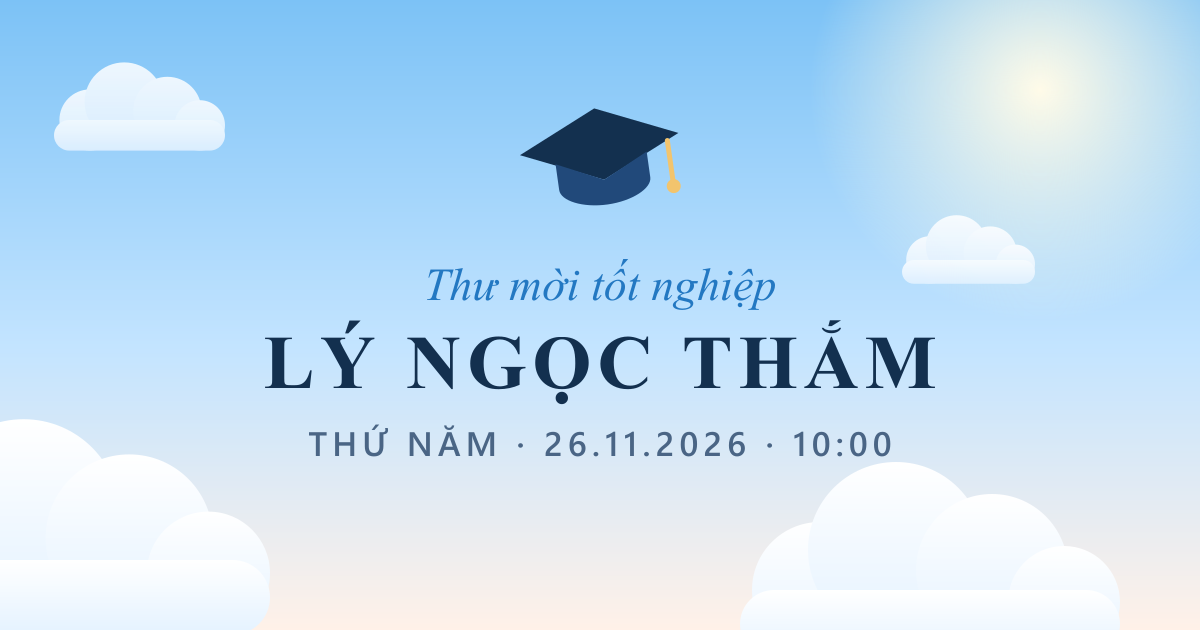
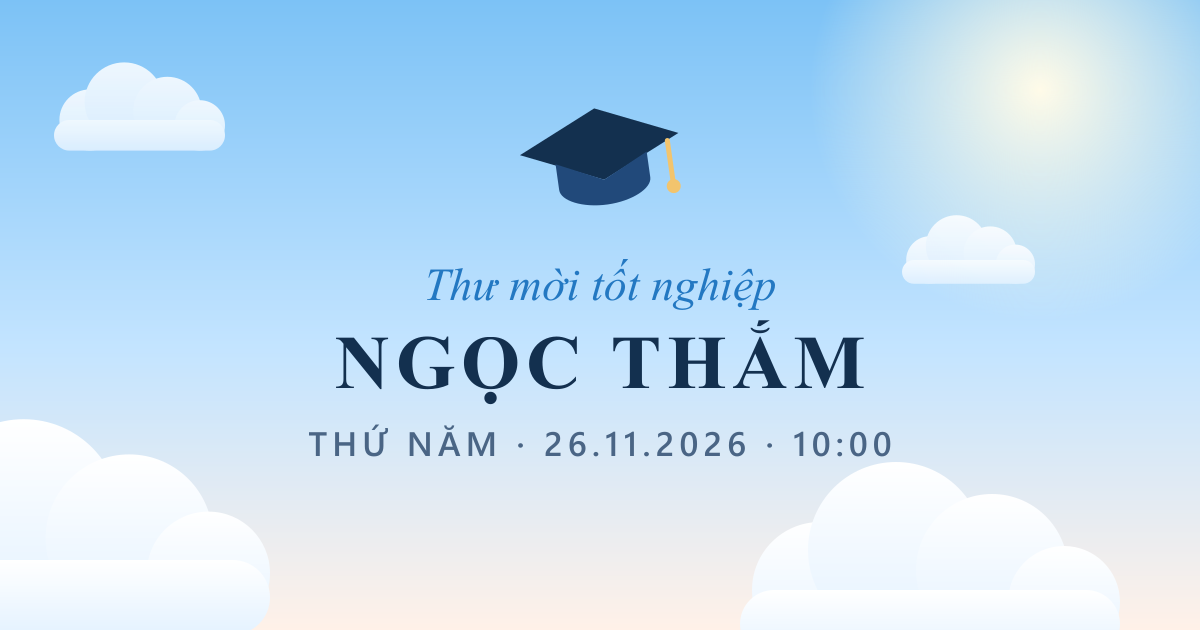
chore: hiển thị tên "Ngọc Thắm" (bỏ họ) ở thiệp, tiêu đề và ảnh xem trước

Changed region(s): [[0.2158, 0.5127, 0.7708, 0.6333]]

diff --git a/index.html b/index.html
@@ -5,11 +5,11 @@
     <meta name="viewport" content="width=device-width, initial-scale=1, viewport-fit=cover" />
     <meta name="robots" content="noindex, nofollow" />
     <meta name="theme-color" content="#bfe3ff" />
-    <title>Thư mời tốt nghiệp · Lý Ngọc Thắm</title>
-    <meta name="description" content="Trân trọng mời bạn đến dự lễ tốt nghiệp của Lý Ngọc Thắm — Thứ Năm, 26.11.2026, 10:00 sáng." />
+    <title>Thư mời tốt nghiệp · Ngọc Thắm</title>
+    <meta name="description" content="Trân trọng mời bạn đến dự lễ tốt nghiệp của Ngọc Thắm — Thứ Năm, 26.11.2026, 10:00 sáng." />
     <link rel="icon" href="/favicon.svg" type="image/svg+xml" />
     <meta property="og:type" content="website" />
-    <meta property="og:title" content="Thư mời tốt nghiệp · Lý Ngọc Thắm" />
+    <meta property="og:title" content="Thư mời tốt nghiệp · Ngọc Thắm" />
     <meta property="og:description" content="Thứ Năm · 26.11.2026 · 10:00 sáng. Mở thiệp để xem chi tiết và gửi lời chúc 🎓" />
     <meta property="og:image" content="%SITE_URL%/og.png" />
     <meta property="og:image:width" content="1200" />

diff --git a/content.js b/content.js
@@ -7,7 +7,7 @@
 export default {
   // Người tốt nghiệp
   graduate: {
-    fullName: 'Lý Ngọc Thắm',
+    fullName: 'Ngọc Thắm',
     shortName: 'Thắm', // dùng trong lời mời, chữ ký
     degree: '', // vd. 'Cử nhân'
     major: '', // vd. 'Quản trị Kinh doanh'

diff --git a/README.md b/README.md
@@ -1,4 +1,4 @@
-# 🎓 Thiệp mời tốt nghiệp · Lý Ngọc Thắm
+# 🎓 Thiệp mời tốt nghiệp · Ngọc Thắm
 
 Thiệp mời online phong cách **"Bầu trời mây"** tông xanh da trời:
 
